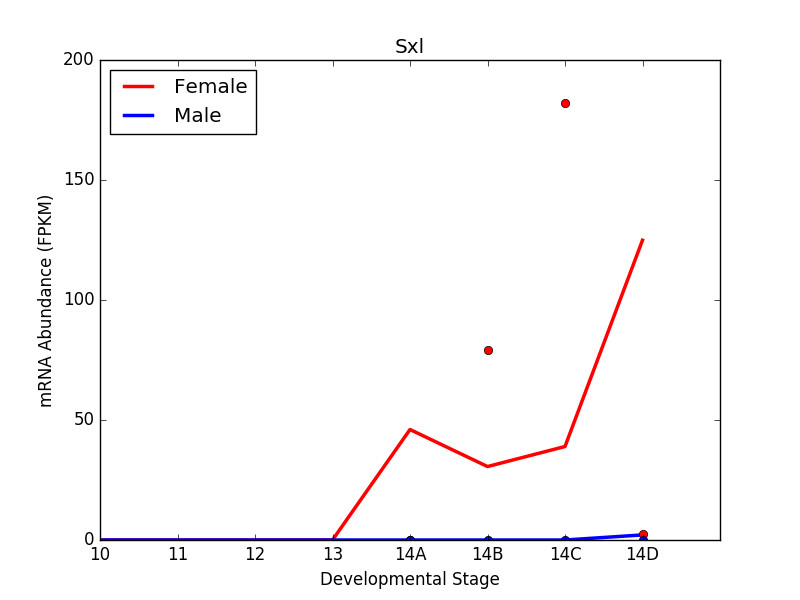
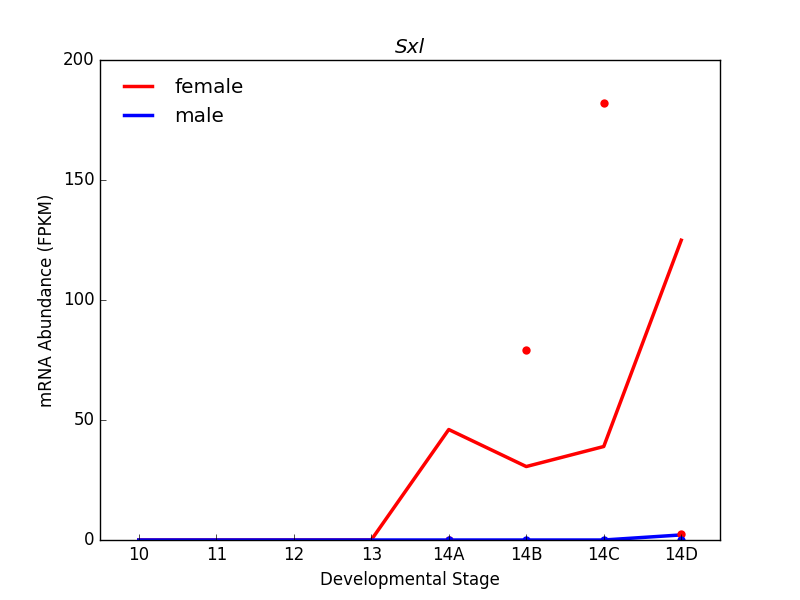
Made timecourse look more like paper figure

diff --git a/day4-homework/d4-hw1.py b/day4-homework/d4-hw1.py
@@ -50,18 +50,20 @@ for sample in repfile[df_roi6]["sample"]:
     male_reps.append(df[df_roi7]["FPKM"].values)
 
 
-x = [0, 1,2,3,4,5,6,7]
+x = [0,1,2,3,4,5,6,7]
 xlabels = ["10","11", "12","13", "14A", "14B", "14C", "14D"]
 plt.figure()
-plt.plot(fem_Sxl, label = "Female", color = 'r', linewidth = 2.5)
-plt.plot(male_Sxl, label = "Male", color = 'b', linewidth = 2.5)
-plt.plot([4,5,6,7],fem_reps, 'ro')
-plt.plot([4,5,6,7], male_reps, 'bo')
-plt.legend(loc="upper left")
+plt.plot(fem_Sxl, label = "female", color = 'r', linewidth = 2.5)
+plt.plot(male_Sxl, label = "male", color = 'b', linewidth = 2.5)
+plt.plot([4,5,6,7],fem_reps, 'ro', markeredgewidth=0.0)
+plt.plot([4,5,6,7], male_reps, 'bo', markeredgewidth=0.0)
+plt.tick_params(axis='x',top='off')
+plt.tick_params(axis='y',right='off')
+plt.legend(loc="upper left", frameon=False)
 plt.xlabel("Developmental Stage")
 plt.ylabel("mRNA Abundance (FPKM)")
 plt.xticks(x, xlabels)
-plt.xlim([0,8])
-plt.title("Sxl")
+plt.xlim([-0.5,7.5])
+plt.title("Sxl", style='italic')
 plt.savefig("timecourse.png")
 plt.close()
